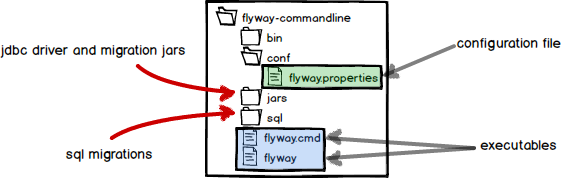
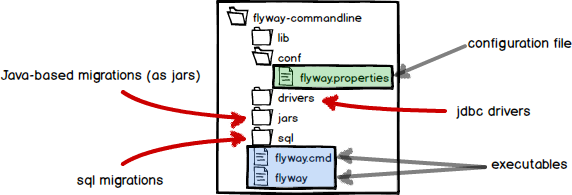
Finish overhaul of documentation section

Changed region(s): [[0.0, 0.0, 1.0, 1.0]]

diff --git a/documentation/callbacks.html b/documentation/callbacks.html
@@ -1,0 +1,103 @@
+---
+layout: documentation
+menu: callbacks
+subtitle: Callbacks
+---
+<div id="callbacks">
+    <h1>Callbacks</h1>
+
+    <p>While migrations are sufficient for most needs, there are certain situations that require you to <strong>execute the same action
+    over and over again</strong>. This could be recompiling procedures, updating materialized views and many other types of housekeeping.</p>
+
+    <p>For this reason, Flyway offers you the possibility to <strong>hook into its lifecycle</strong> by using Callbacks.</p>
+
+    <p>These are the hooks Flyway supports:</p>
+    <table class="table table-bordered table-hover">
+        <thead>
+        <tr>
+            <th><strong>Name</strong></th>
+            <th><strong>Execution</strong></th>
+        </tr>
+        </thead>
+        <tbody>
+        <tr>
+            <td>beforeMigrate</td>
+            <td>Before Migrate runs</td>
+        </tr>
+        <tr>
+            <td>beforeEachMigrate</td>
+            <td>Before every single migration during Migrate</td>
+        </tr>
+        <tr>
+            <td>afterEachMigrate</td>
+            <td>After every single migration during Migrate</td>
+        </tr>
+        <tr>
+            <td>afterMigrate</td>
+            <td>After Migrate runs</td>
+        </tr>
+        <tr>
+            <td>beforeClean</td>
+            <td>Before Clean runs</td>
+        </tr>
+        <tr>
+            <td>afterClean</td>
+            <td>After Clean runs</td>
+        </tr>
+        <tr>
+            <td>beforeInfo</td>
+            <td>Before Info runs</td>
+        </tr>
+        <tr>
+            <td>afterInfo</td>
+            <td>After Info runs</td>
+        </tr>
+        <tr>
+            <td>beforeValidate</td>
+            <td>Before Validate runs</td>
+        </tr>
+        <tr>
+            <td>afterValidate</td>
+            <td>After Validate runs</td>
+        </tr>
+        <tr>
+            <td>beforeBaseline</td>
+            <td>Before Baseline runs</td>
+        </tr>
+        <tr>
+            <td>afterBaseline</td>
+            <td>After Baseline runs</td>
+        </tr>
+        <tr>
+            <td>beforeRepair</td>
+            <td>Before Repair runs</td>
+        </tr>
+        <tr>
+            <td>afterRepair</td>
+            <td>After Repair runs</td>
+        </tr>
+        </tbody>
+    </table>
+
+    <p>Callbacks can be implemented either in SQL or in Java.</p>
+
+    <h2>SQL Callbacks</h2>
+
+    <p>The most convenient way to hook into Flyway's lifecycle is through SQL callbacks. These are simply sql files
+        in the configured locations following a certain naming convention: the callback name followed by the SQL migration suffix.</p>
+
+    <p>Using the default settings, Flyway looks in its default locations (&lt;install_dir&gt;/sql) for the Command-line tool) for SQL files like beforeMigrate.sql, beforeEachMigrate.sql, afterEachMigrate.sql, ...</p>
+
+    <p>Placeholder replacement works just like it does for <a href="/documentation/migration/sql.html">SQL migrations</a>.</p>
+
+    <h2>Java Callbacks</h2>
+
+    <p>If SQL Callbacks aren't flexible enough for you, you have the option to implement the
+        <strong><a href="/documentation/api/javadoc/org/flywaydb/core/api/callback/FlywayCallback.html">FlywayCallback</a></strong>
+        interface yourself. You can even hook multiple Callback implementations in the lifecycle.
+    </p>
+
+    <p class="next-steps">
+        <a class="btn btn-primary" href="/documentation/commandline/">Command-line <i class="fa fa-arrow-right"></i></a>
+    </p>
+</div>

diff --git a/documentation/api/hooks.html b/documentation/api/hooks.html
@@ -1,0 +1,51 @@
+---
+layout: api
+pill: hooks
+subtitle: API hooks
+---
+<div id="hooks">
+    <h1>API: hooks</h1>
+
+    <p>There are three ways you can hook into the Flyway API.</p>
+
+    <h2>Java-based Migrations</h2>
+
+    <p>The first one is the the most common one: <a href="/documentation/migration/java.html">Java-based Migrations</a>
+    when you need more power than SQL can offer you. This is great to for dealing with LOBs or performing advanced
+    data transformations.</p>
+
+    <p>This can be achieved by implementing the <strong><a
+            href="/documentation/api/javadoc/org/flywaydb/core/api/migration/jdbc/JdbcMigration.html"
+            >JdbcMigration</a></strong> interface.</p>
+
+    <p>Alternatively Spring users may prefer to implement the <strong><a
+            href="/documentation/api/javadoc/org/flywaydb/core/api/migration/spring/SpringJdbcMigration.html"
+            >SpringJdbcMigration</a></strong> interface to gain access to a Spring JdbcTemplate instead of a plain JDBC connection.</p>
+
+    <p>For even more flexibility with regard to naming and checksums you can additionally implement the <strong><a
+            href="/documentation/api/javadoc/org/flywaydb/core/api/migration/MigrationInfoProvider.html"
+            >MigrationInfoProvider</a></strong> and <strong><a
+            href="/documentation/api/javadoc/org/flywaydb/core/api/migration/MigrationChecksumProvider.html"
+            >MigrationChecksumProvider</a></strong> interfaces.</p>
+
+    <h2>Java-based Callbacks</h2>
+
+    <p>Building upon that are the <a href="/documentation/callbacks.html">Java-based Callbacks</a>
+        when you need more power or flexibility in a Callback than SQL can offer you.</p>
+
+    <p>This can be achieved by implementing the <strong><a href="/documentation/api/javadoc/org/flywaydb/core/api/callback/FlywayCallback.html">FlywayCallback</a></strong>
+        interface.</p>
+
+    <h2>Custom Migration resolvers &amp; executors</h2>
+
+    <p>For those that need more than what the SQL and Java-based migrations offer, you also have the possibility to
+    implement your own <strong><a href="/documentation/api/javadoc/org/flywaydb/core/api/resolver/MigrationResolver.html">MigrationResolver</a></strong>
+        coupled with a custom <strong><a href="/documentation/api/javadoc/org/flywaydb/core/api/resolver/MigrationExecutor.html">MigrationExecutor</a></strong>.
+    </p>
+
+    <p>These can then be used for loading things like CSV-based migrations or other custom formats.</p>
+
+    <p class="next-steps">
+        <a class="btn btn-primary" href="/documentation/api/javadoc.html">API: Javadoc <i class="fa fa-arrow-right"></i></a>
+    </p>
+</div>

diff --git a/documentation/migration/index.html b/documentation/migration/index.html
@@ -1,14 +1,19 @@
 ---
 layout: migration
 pill: overview
-subtitle: Migrations
+subtitle: Migrations & Versions
 ---
 <div id="migrations">
-    <h1>Migrations</h1>
+    <h1>Migrations &amp; Versions</h1>
 
     <p>Flyway updates the database from one version to the next using <strong>migrations</strong>.</p>
 
-    <p>Each migration must have a <strong>unique version</strong> and a description.</p>
+    <h2>Available vs Applied Migrations</h2>
+
+    <p>Migrations are either Available or Applied. Available migrations have been detected by Flyway's filesystem
+        and classpath scanner. Once they are executed against the database, they become Applied.</p>
+
+    <h2>Migration types</h2>
 
     <p>Not all migrations are equally complex, therefore Flyway support both <a
             href="/documentation/migration/sql.html">Sql</a> and <a href="/documentation/migration/java.html">Java</a> migrations.
@@ -24,6 +29,8 @@ subtitle: Migrations
     <p>Flyway <strong>sorts</strong> all migrations <strong>by version</strong> and executes them in order.</p>
 
     <h2 id="versions">Versions</h2>
+
+    <p>Each migration must have a <strong>unique version</strong> and a description.</p>
 
     <p>A version must have the following structure:</p>
 

diff --git a/documentation/roadmap.html b/documentation/roadmap.html
@@ -9,17 +9,15 @@ subtitle: Roadmap
     <p>The general priority is first bug fixes and documentation improvements. Then come new features.</p>
 
     <div class="release">
-        <h3>Flyway 3.1 (Q2 2014)</h3>
-        <ul>
-            <li><a href="https://github.com/flyway/flyway/issues/81">Issue 81</a> Grails plugin</li>
-        </ul>
+        <h3>Flyway 3.2 (Q1 2015)</h3>
+
+        <p><strong>Themes:</strong> polish, ship JRE with Command-line tool</p>
     </div>
 
     <div class="release">
-        <h3>Flyway 3.2 (Q3 2014)</h3>
-        <ul>
-            <li><a href="https://github.com/flyway/flyway/issues/538">Issue 538</a> Play 2 plugin</li>
-        </ul>
+        <h3>Flyway 4.0 (Q2 2014)</h3>
+
+        <p><strong>Themes:</strong> drop deprecated features, revisit API hook interfaces, support for "repeatable script per file" scenario</p>
     </div>
 
     <p class="next-steps">

diff --git a/_layouts/documentation.html b/_layouts/documentation.html
@@ -33,7 +33,10 @@ title: Documentation
                     <li class="nav-header">Concepts</li>
                     <li
                     {% if page.menu == 'migration' %} class="active" {% endif %}>
-                    <a href="/documentation/migration">Migrations</a></li>
+                    <a href="/documentation/migration">Migrations &amp; Versions</a></li>
+                    <li
+                    {% if page.menu == 'callbacks' %} class="active" {% endif %}>
+                    <a href="/documentation/callbacks.html">Callbacks</a></li>
                     <li class="nav-header">Execution Modes</li>
                     <li
                     {% if page.menu == 'commandLine' %} class="active" {% endif %}>

diff --git a/documentation/commandline/index.html b/documentation/commandline/index.html
@@ -51,6 +51,22 @@ subtitle: Command-line
         </tbody>
     </table>
 
+    <h2>JDBC drivers</h2>
+
+    <p>Flyway ships with JDBC drivers for the following databases by default:</p>
+    <ul>
+        <li>MySQL</li>
+        <li>MariaDB</li>
+        <li>PostgreSQL</li>
+        <li>Redshift</li>
+        <li>H2</li>
+        <li>Hsql</li>
+        <li>Derby</li>
+        <li>SQLite</li>
+    </ul>
+
+    <p>If your database is not listed here, you need to manually place your JDBC driver in the <code>drivers</code> directory.</p>
+
     <h2>Configuration</h2>
 
     <p>The Flyway Command-line tool can be configured in the following ways:</p>

diff --git a/documentation/migration/sql.html b/documentation/migration/sql.html
@@ -50,6 +50,12 @@ subtitle: SQL Migrations
         <li>Database-specific SQL syntax extensions (PL/SQL, T-SQL, ...)</li>
     </ul>
 
+    <h2 id="placeholders">Placeholder replacement</h2>
+    <p>Flyway supports placeholder replacement with configurable pre- and suffixes. By default it looks for Ant-style
+    placeholders like ${myplaceholder}.</p>
+
+    <p>This can be very useful to abstract differences between environments.</p>
+
     <h2>Sample Script</h2>
     <pre class="prettyprint">/* Single line comment */
 CREATE TABLE test_user (

diff --git a/_layouts/api.html b/_layouts/api.html
@@ -8,6 +8,9 @@ menu: api
         {% if page.pill == 'overview' %} class="active" {% endif %}>
         <a href="/documentation/api">Overview</a></li>
         <li
+        {% if page.pill == 'hooks' %} class="active" {% endif %}>
+        <a href="/documentation/api/hooks.html">Hooks</a></li>
+        <li
         {% if page.pill == 'javadoc' %} class="active" {% endif %}>
         <a href="/documentation/api/javadoc.html">Javadoc</a></li>
     </ul>

diff --git a/documentation/migration/java.html b/documentation/migration/java.html
@@ -106,6 +106,6 @@ public class V1_2__Another_user implements SpringJdbcMigration {
 }</pre>
 
     <p class="next-steps">
-        <a class="btn btn-primary" href="/documentation/existing.html">Existing database setup <i class="fa fa-arrow-right"></i></a>
+        <a class="btn btn-primary" href="/documentation/callbacks.html">Callbacks <i class="fa fa-arrow-right"></i></a>
     </p>
 </div>

diff --git a/documentation/api/index.html b/documentation/api/index.html
@@ -78,6 +78,6 @@ flyway.migrate();</pre>
 &lt;/bean&gt;</pre>
 
     <p class="next-steps">
-        <a class="btn btn-primary" href="/documentation/api/javadoc.html">API: Javadoc <i class="fa fa-arrow-right"></i></a>
+        <a class="btn btn-primary" href="/documentation/api/hooks.html">API: Hooks <i class="fa fa-arrow-right"></i></a>
     </p>
 </div>
